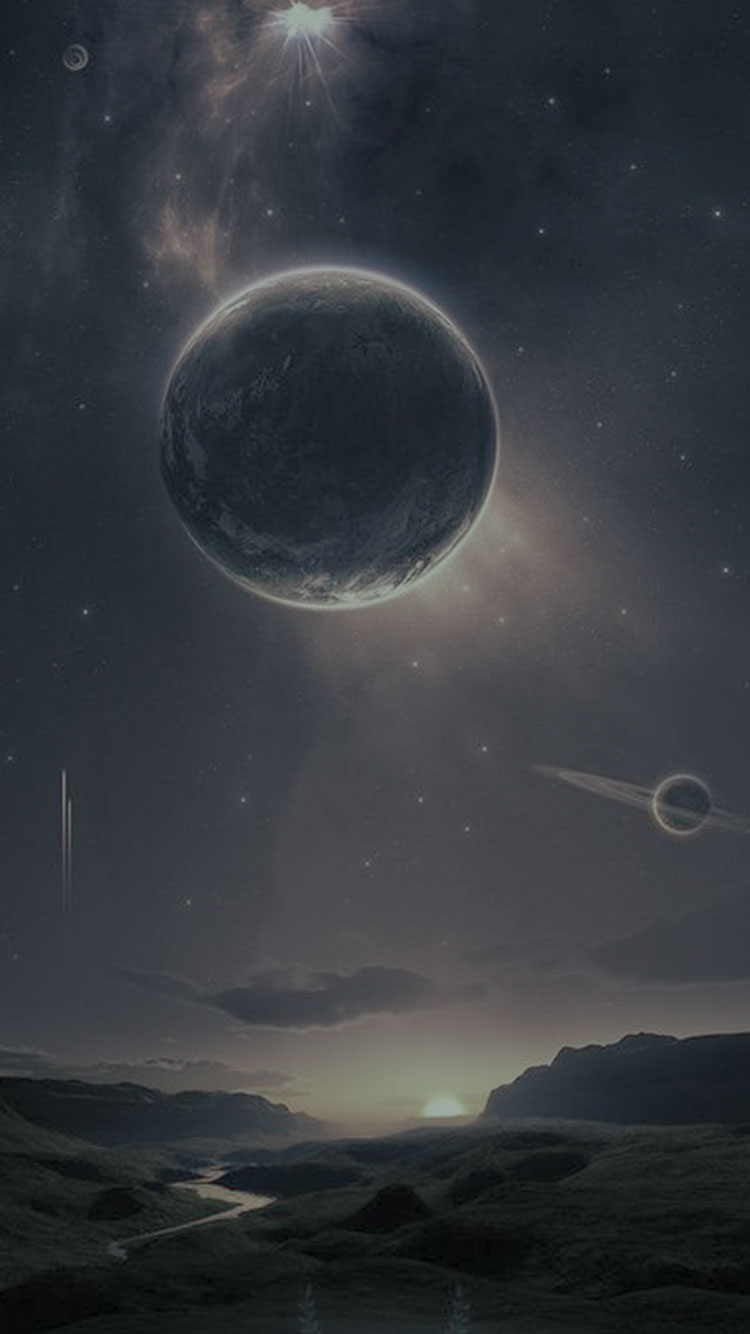
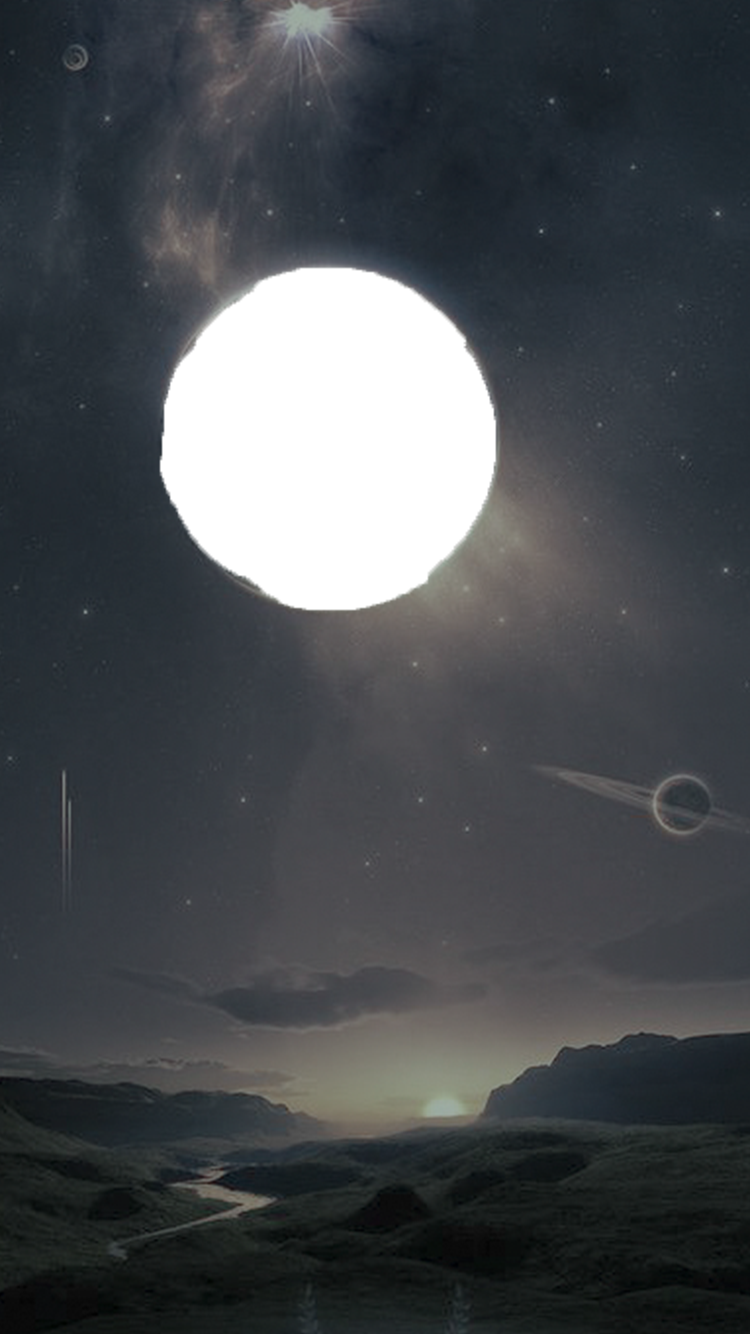
test

Changed region(s): [[0.2147, 0.1844, 0.6747, 0.461]]

diff --git a/js/index.js b/js/index.js
@@ -1,6 +1,6 @@
 $(document).ready(function() {
 
-	alert(1);
+	// alert(1);
 	setInterval(function(){
 		console.log($('#s1-c1').css('transform'));
 	},30)
@@ -93,11 +93,12 @@ $('.s1-c1').css('top',parseInt(windowWidth*0.27));
 $('.s1-c2').css('top',parseInt(windowWidth*0.21));
 $('.s1-c3').css('top',parseInt(windowWidth*0.205));
 $('#s1-fp').css('top',parseInt(windowWidth*0.53));
+$('#s1-earth').css('top',parseInt(windowWidth*0.335));
 $('#ani-circle').css('bottom',-parseInt(windowWidth*0.48));
 
 $('#s1-fp').tap(function(){
 	
-	$(this).fadeOut(300);
+	$(this).fadeOut(400);
 	$('#s1-sbl').fadeOut(400);
 	$('.circle').addClass('ani-pause');
 	var c1transform = $('#s1-c1').css('transform');
@@ -107,10 +108,23 @@ $('#s1-fp').tap(function(){
 	$('#s1-c2').css('transform',c2transform);
 	$('#s1-c3').css('transform',c3transform);
 	setTimeout(function(){
-		$('.circle').removeClass().addClass('zoomBigOut');
-	},400)
+		$('#s1-c3').removeClass().addClass('zoomBigOut');
+	},600);
+	setTimeout(function(){
+		$('#s1-c2').removeClass().addClass('zoomBigOut');
+	},700);
+	setTimeout(function(){
+		$('#s1-c1').removeClass().addClass('zoomBigOut');
+	},800);
 
-	// mainSwiper.slideTo(1, 800,true);
+	setTimeout(function(){
+		$('#s1-earth').addClass('ani-earth');
+	},700)
+	setTimeout(function(){
+		mainSwiper.slideTo(1, 800,true);
+	},1500)
+
+	
 
 })
 $('#s2-btn').tap(function() {

diff --git a/css/index.css b/css/index.css
@@ -70,6 +70,12 @@ html,body,.swiper-container {
 	0%{ transform:rotate(0deg); }
 	100%{ transform:rotate(-360deg); }
 }
+#s1-earth {
+	display: block;
+	position: absolute;
+	width: 55%;
+	left: 16%;
+}
 #s1-fp {
 	width: 11.5%;
 	position: absolute;
@@ -592,11 +598,40 @@ animation-play-state:paused;
     opacity: 0;
   }
 }
+@-webkit-keyframes zoomBigOut {
+  0% {
+    opacity: 1;
+  }
+
+  50% {
+    opacity: 0;
+    -webkit-transform: scale3d(3, 3, 3);
+    transform: scale3d(3, 3, 3);
+  }
+
+  100% {
+    opacity: 0;
+  }
+}
 
 .zoomBigOut {
   -webkit-animation-name: zoomBigOut;
   animation-name: zoomBigOut;
   -webkit-animation-duration: 3s;
   animation-duration: 3s;
+}
+.ani-earth {
+	-webkit-animation: scaleOut 20s ease-in-out;
+	animation: scaleOut 20s ease-in-out;
+}
+@keyframes scaleOut {
+  0% {
+    transform:scale(1,1);
+  }
 
+
+
+  100% {
+    transform:scale(5,5);
+  }
 }

diff --git a/index.html b/index.html
@@ -26,6 +26,7 @@
 				<img src="images/s1-circle1.png" id="s1-c1" class="s1-c1 circle">
 				<img src="images/s1-circle2.png" id="s1-c2" class="s1-c2 circle">
 				<img src="images/s1-circle3.png" id="s1-c3" class="s1-c3 circle">
+				<img src="images/earth.jpg" id="s1-earth">
 				<a href="#" id="s1-fp"><img src="images/s1-fingerprint.png"></a>
 				<img src="images/s1-subline.png" id="s1-sbl">
 			</div>
